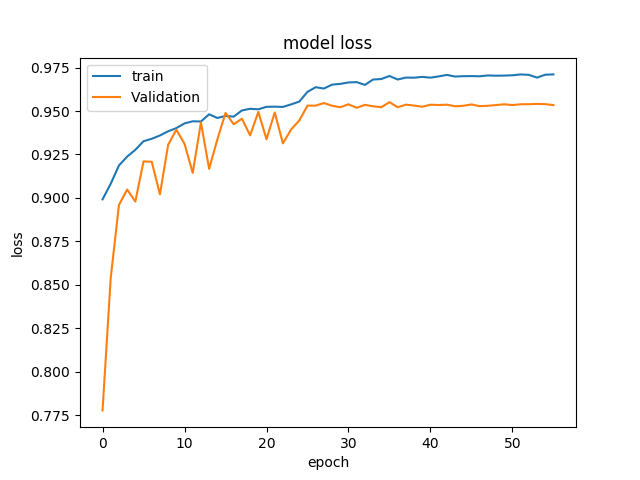
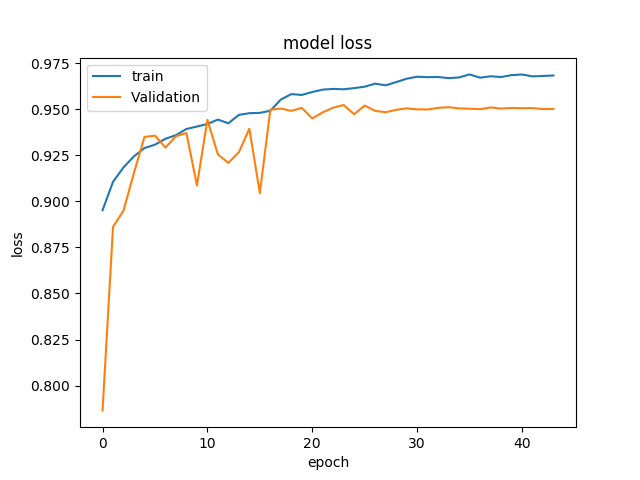
IoU表示できるように変更

diff --git a/src/U-net_with_simple_Resnet_Blocks.py b/src/U-net_with_simple_Resnet_Blocks.py
@@ -13,6 +13,7 @@ import numpy as np
 import matplotlib.pyplot as plt
 import seaborn as sns
 import warnings
+import tensorflow as tf
 
 # import cv2
 from sklearn.model_selection import train_test_split
@@ -34,29 +35,31 @@ from keras import backend as K
 
 from keras.preprocessing.image import ImageDataGenerator, array_to_img, img_to_array, load_img
 
-"""
-seed fixするため追加した処理
-参考: https://qiita.com/okotaku/items/8d682a11d8f2370684c9
-"""
-
-import random as rn
-import tensorflow as tf
-
-os.environ['PYTHONHASHSEED'] = '0'
-np.random.seed(7)
-rn.seed(7)
-
-session_conf = tf.ConfigProto(intra_op_parallelism_threads=1,
-                              inter_op_parallelism_threads=1)
-
-tf.set_random_seed(7)
-sess = tf.Session(graph=tf.get_default_graph(), config=session_conf)
-K.set_session(sess)
-
 warnings.simplefilter(action='ignore', category=FutureWarning)
 
 ACTIVATION = "relu"
 iou_thresholds = np.array([0.5, 0.55, 0.6, 0.65, 0.7, 0.75, 0.8, 0.85, 0.9, 0.95])
+
+
+# IoUの表示用に追加
+def get_iou_vector(A, B):
+    batch_size = A.shape[0]
+    metric = []
+    for batch in range(batch_size):
+        t, p = A[batch]>0, B[batch]>0
+        intersection = np.logical_and(t, p)
+        union = np.logical_or(t, p)
+        iou = (np.sum(intersection > 0) + 1e-10 )/ (np.sum(union > 0) + 1e-10)
+        thresholds = np.arange(0.5, 1, 0.05)
+        s = []
+        for thresh in thresholds:
+            s.append(iou > thresh)
+        metric.append(np.mean(s))
+
+    return np.mean(metric)
+
+def my_iou_metric(label, pred):
+    return tf.py_func(get_iou_vector, [label, pred>0.5], tf.float64)
 
 def rle_encode(im):
     pixels = im.flatten(order = 'F')
@@ -252,7 +255,7 @@ def main():
     output_layer = build_model(input_layer, 16,0.5)
 
     model = Model(input_layer, output_layer)
-    model.compile(loss="binary_crossentropy", optimizer="adam", metrics=["acc"])
+    model.compile(loss="binary_crossentropy", optimizer="adam", metrics=[my_iou_metric])
 
     early_stopping = EarlyStopping(monitor='val_acc', mode = 'max',patience=20, verbose=1)
     model_checkpoint = ModelCheckpoint("../output/unet_best1.model",monitor='val_acc',
